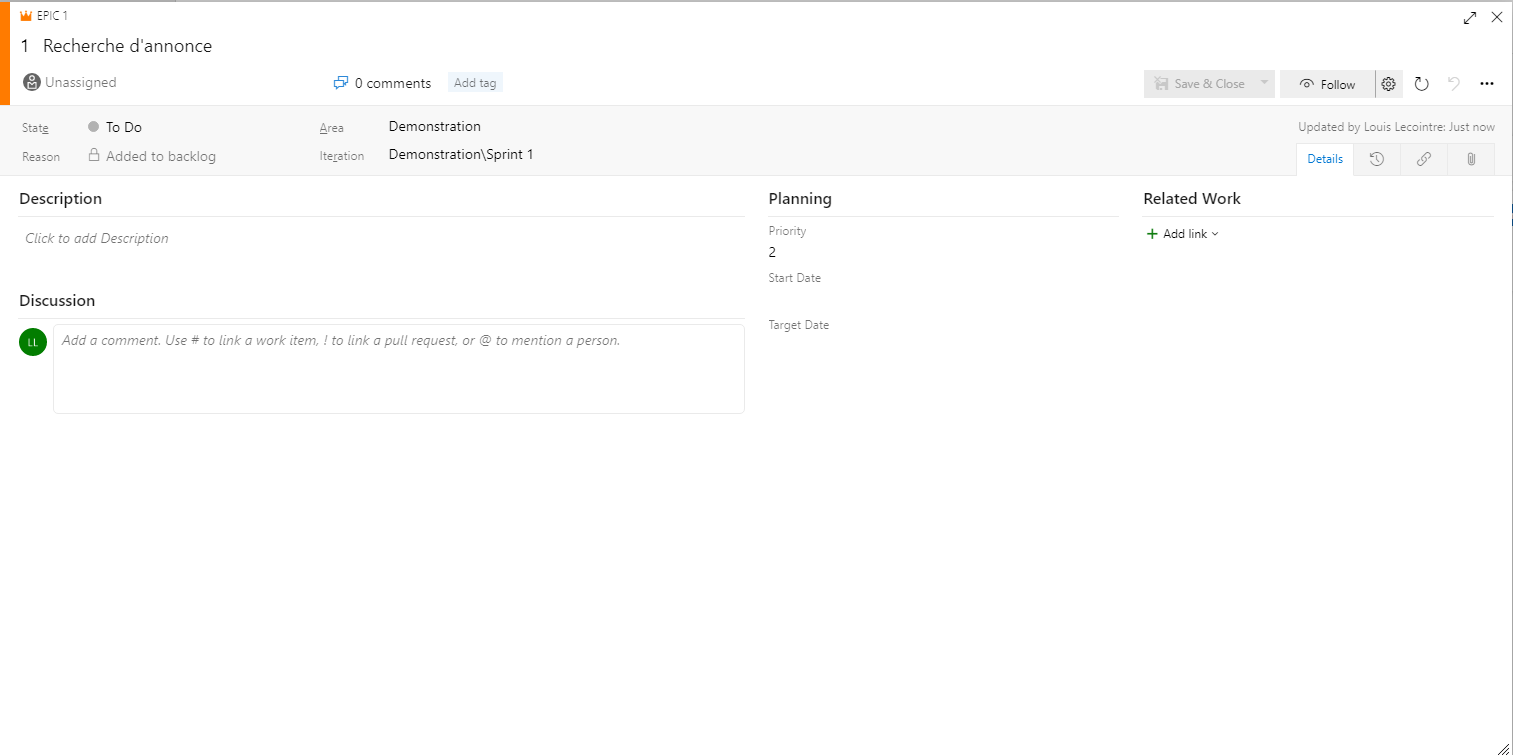
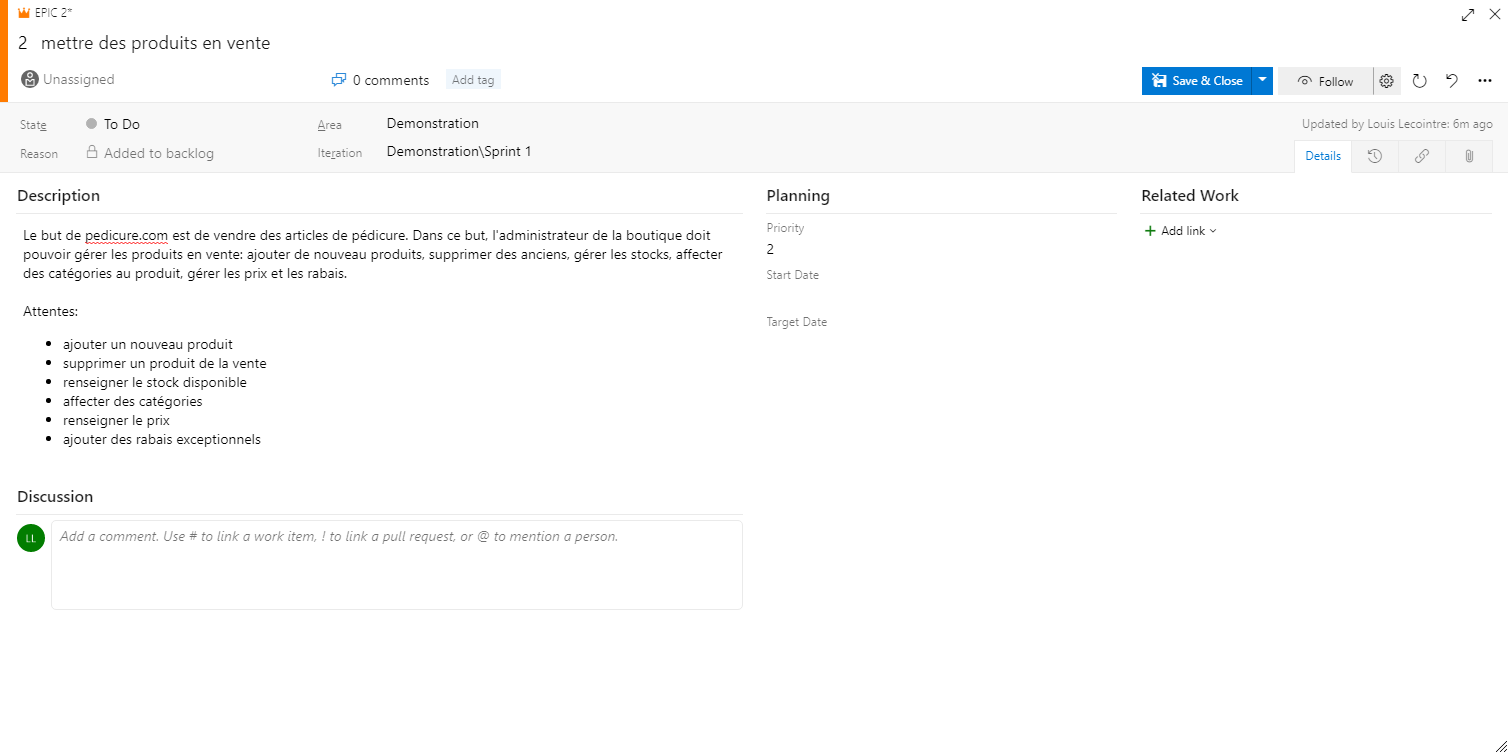
project mngmt : backlog

diff --git a/docs/project-management/backlog.md b/docs/project-management/backlog.md
@@ -2,20 +2,47 @@
 
 La gestion du backlog est la tâche la plus lourde du *product owner*. Pour faciliter cette tâches des outils et des principes rigides sont mis en place pour ce concentrer sur l'essentiel: couvrir les fonctionnalités nécessaires et les faire passer à l'équipe de développement sans laisser de portes ouvertes à l'interprétation.
 
+Le projet est géré depuis **Azure DevOps**. Un exemple est donné [ici](https://dev.azure.com/obelos/Demonstration)
+
 ## Le *backlog*
 ### C'est quoi le *backlog* ?
-Le backlog, c'est l'ensemble des demandes du *product owner*. Il est composé d'***Epics*** - les grandes fonctionnalité du projet, eux-même découpés en ***user stories*** (ou *issues*) qui présentent des cas d'utilisation concrets
+Le backlog, c'est l'ensemble des demandes du *product owner*. Il est composé d'***Epics*** - les grandes fonctionnalité du projet, eux-même découpés en ***user stories*** (ou *issues*) qui présentent des cas d'utilisation concrets. Nos attentes concernant le contenu des *epics* et de *user stories* est décrit en détails plus bas sur cette page.
 ### Pour y accéder
+La gestion du backlog se fait dans **Azure Boards**. Rendez-vous sur l'espace du projet (nous vous enverrons un lien) et via le menu de gauche: boards ➡ backlog
 ![AcessBacklog](../.vuepress/assets/img/screen_backlog.png)
 
 ## les *Epics*
 ### C'est quoi un *epic*
+Un *epic* décrit une fonctionnalité du projet. L'ensemble des *epics* doit donner une bonne compréhension du projet, et les epics à traiter doivent être définis au début du projet. Les *epics* on pour objectif de classer les *user stories* (voir ensuite) et de donner une vue d'ensemble du projet dès le début. Il ne s'agit pas de rentrer dans le détail des fonctionnalités. Les epics ne doivent pas radicalement changer durant le projet, et pas sans consultation des participant au projet. 
+
+
+
+Nous vous demandons de bien vouloir adopter le formalisme suivant pour la définition des epics.
+titre|description|exigences
+---|---|---
+un titre court ciblant clairement une fonctionnalité|un texte explicant la fonctionnalité espérée dans les grandes lignes, en bon français, sur lequel vous pouvez rajouter tout élément que vous jugerez pertinant pour nous aider à cerner le besoin|une serie de bullet points definissant les cas traités par cette fonctionnalité à un niveau plus fin
+
 ### Pour en créer un
+Depuis le backlog, passez en mode "*epics*"
 ![SwitchToEpics](../.vuepress/assets/img/switch_to_epics.png)
+
+Créez un nouvel *epic*:
 ![NewEpic](../.vuepress/assets/img/new_epic.png)
-![NewEpic2](../.vuepress/assets/img/new_epic2.png)
+
+L'*epic* va apparaître dans la liste en dessous. En cliquant dessus depuis la liste, vous pourrez le modifier et le compléter comme dans l'exemple suivant:
 ![Epic](../.vuepress/assets/img/epic.png)
+
+
+Les seuls champs à modifier de la carte *epic* sont le titre et la description.
 
 ## Les *User stories*
 ### C'est quoi une *user story* ?
+Les *user stories* se réferrent à un *epic* et décrivent en détail les cas d'utilisation correspondant à la fonctionnalité décrite dans l'*epic*. Avant d'écrire les *user stories*, nous définissons des *rôles* (à ne pas confondre avec les rôles des participants au projet), qui auront des permissions différentes sur le site ou l'application développée. Le plus souvent il n'y a que trois rôles: **anonyme** pour un visiteur non connecté, **utilisateur** pour un visiteur connecté et **administrateur**. Selon les projets, il y aura plus ou moins de rôles différents.
+
+Les *user stories* correspondent à un souhait précis d'un visiteur ayant un rôle donné, et sont exprimées dans le formalisme suivant: 
+
+> En tant que `<role>`, je souhaite `<un souhait unique>`
+
+L'équipe de développement va traiter les *user stories* une à une, en traduisant les attentes "métier" en termes techniques. Pour s'assurer d'avoir bien rempli les attentes du *product owner*, les *user stories* doivent aussi comporter des critères d'acceptation, dans la forme suivante:
+> Lorsque je `<action unique>`, alors `<conséquences de l'action>`
 ### Pour en créer une
